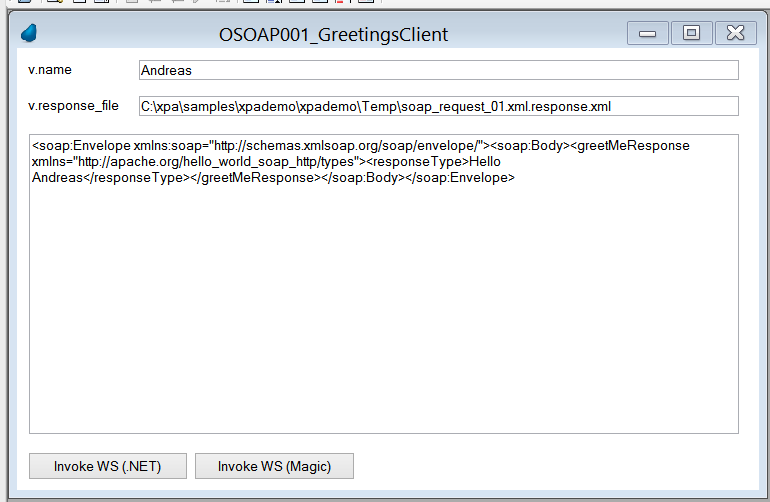
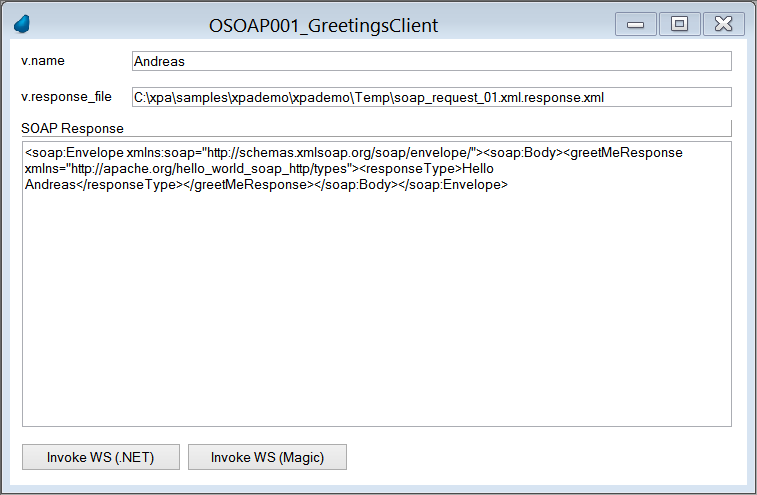
doc

Changed region(s): [[0.0, 0.0, 1.0, 1.0]]

diff --git a/XpaDemo/Doc/Samples/XpaTSoap/OSOAP001_GreetingsClient.md b/XpaDemo/Doc/Samples/XpaTSoap/OSOAP001_GreetingsClient.md
@@ -4,10 +4,15 @@ OSOAP001_GreetingsClient is an online program which does implement a UI for test
 
 ## Screen
 ![OSOAP001_GreetingsClient](./OSOAP001_GreetingsClient_01.png)
-  
+In above screen the user left everything default and clicked one of the "Invoke WS" buttons, which sends a SOAP request to an "GreetingsServer" which did respond with the XML loaded into field "SOAP Response". 
+
 ## Buttons
 ### Invoke WS (.NET)
-### Invoke WS (Magic)
+Calls program [BSOAP001_GreetingsClient](BSOAP001_GreetingsClient.md) with v.Name as a parameter[BSOAP001_GreetingsClient](BSOAP001_GreetingsClient.md) will generate a SOAP request with client certificates and send that to "GreetingsServer" via (.NET) XpaTHttpDNet.Post(). If that function succeds it will write the SOAP reponse (XML) to disk and return the location of that file in a parameter. OSOAP001_GreetingsClient then loads the content of this file into field SOAP_Response.
 
+### Invoke WS (Magic)
+Generates a SOAP request and sends that to "GreetingsServer". Implementation is part of OSOAP001_GreetingsClient and based on Magic "Invoke SOAP Lite". Currently this will always fail because no client certificates will be sent and "GreetingsServer" will not accept the connection therefore.
+![OSOAP001_GreetingsClient_Magic](./OSOAP001_GreetingsClient_02.png)
 
 # Furter Notes / implementation details
+-> 

diff --git a/XpaDemo/Doc/Samples/XpaTSoap/BSOAP001_GreetingsClient.md b/XpaDemo/Doc/Samples/XpaTSoap/BSOAP001_GreetingsClient.md
@@ -1,0 +1,1 @@
+# BSOAP001_GreetingsClient
